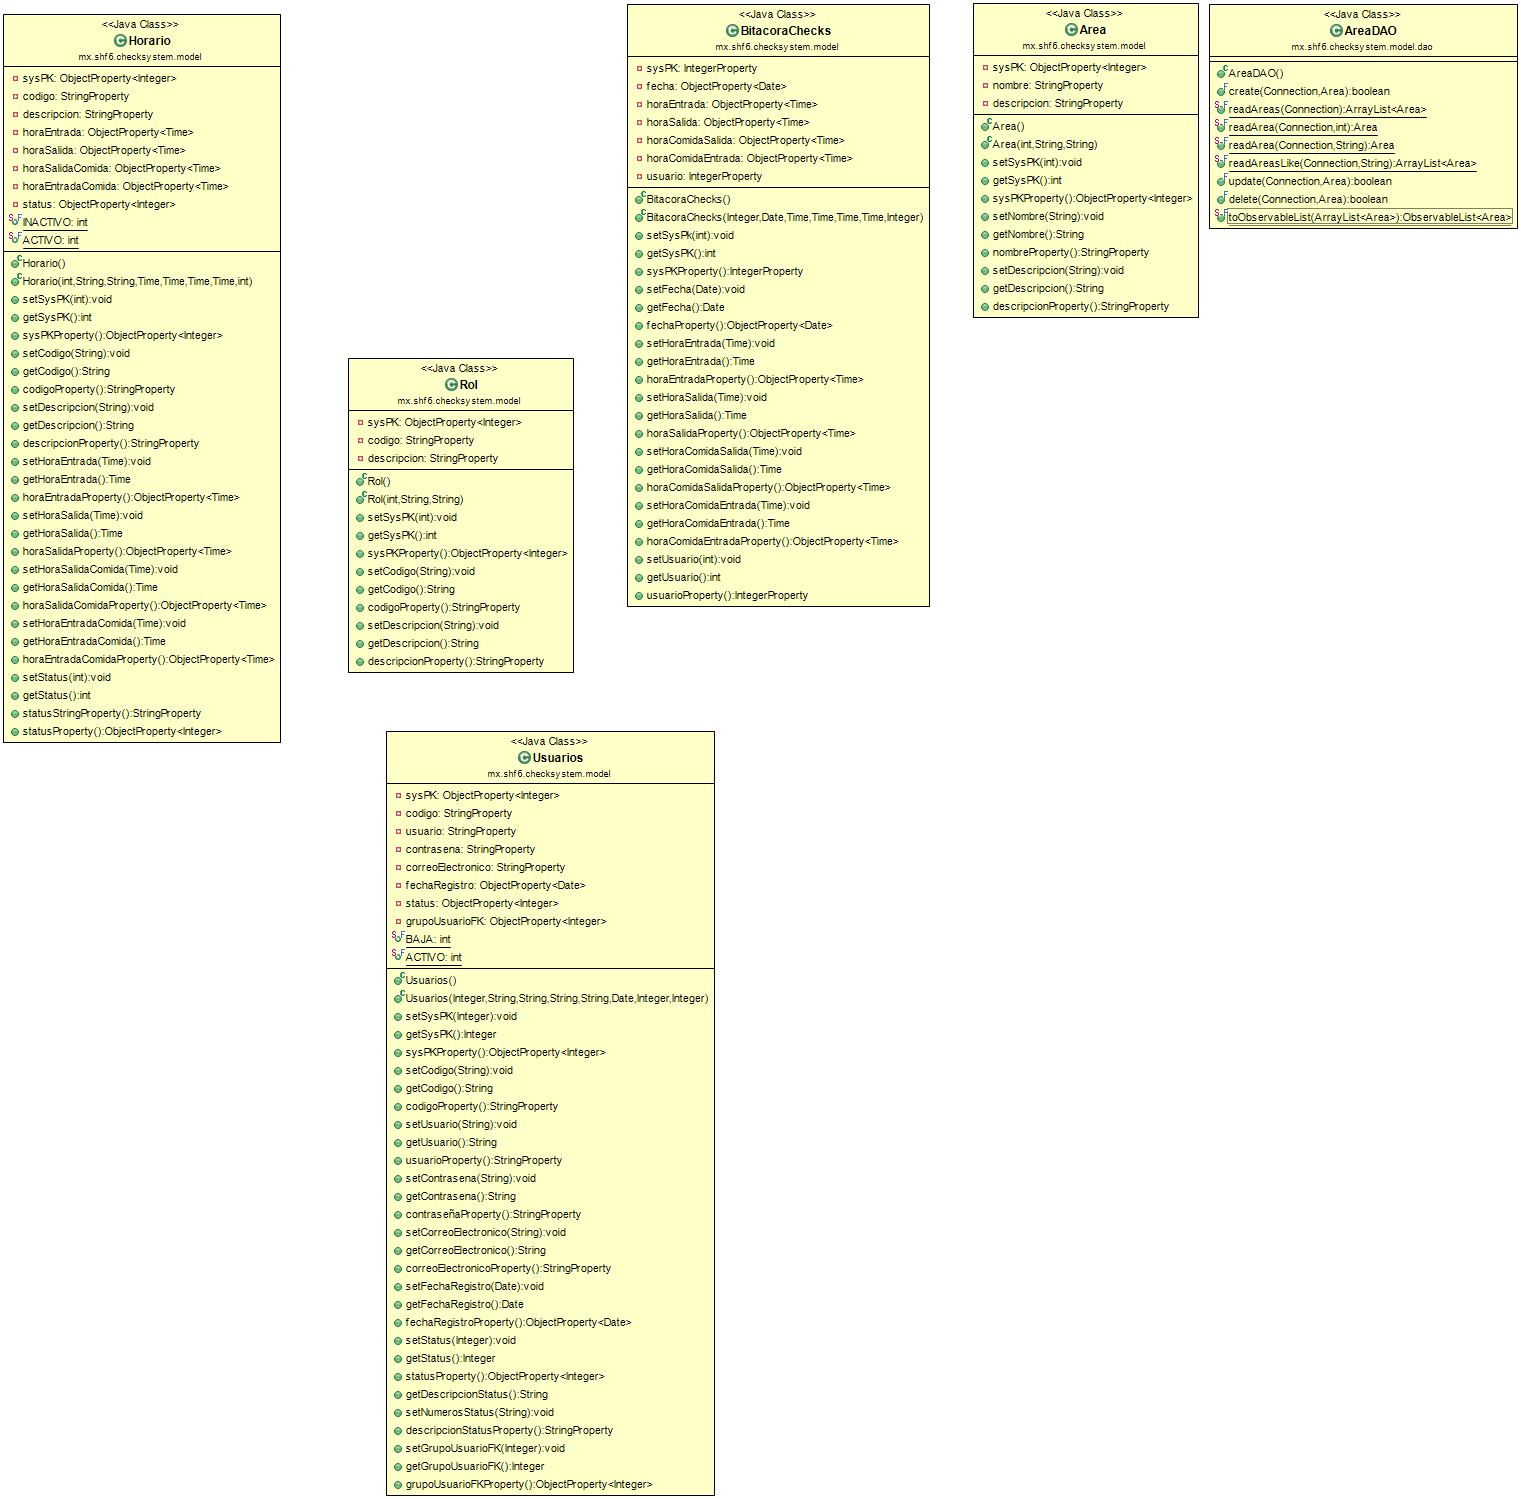
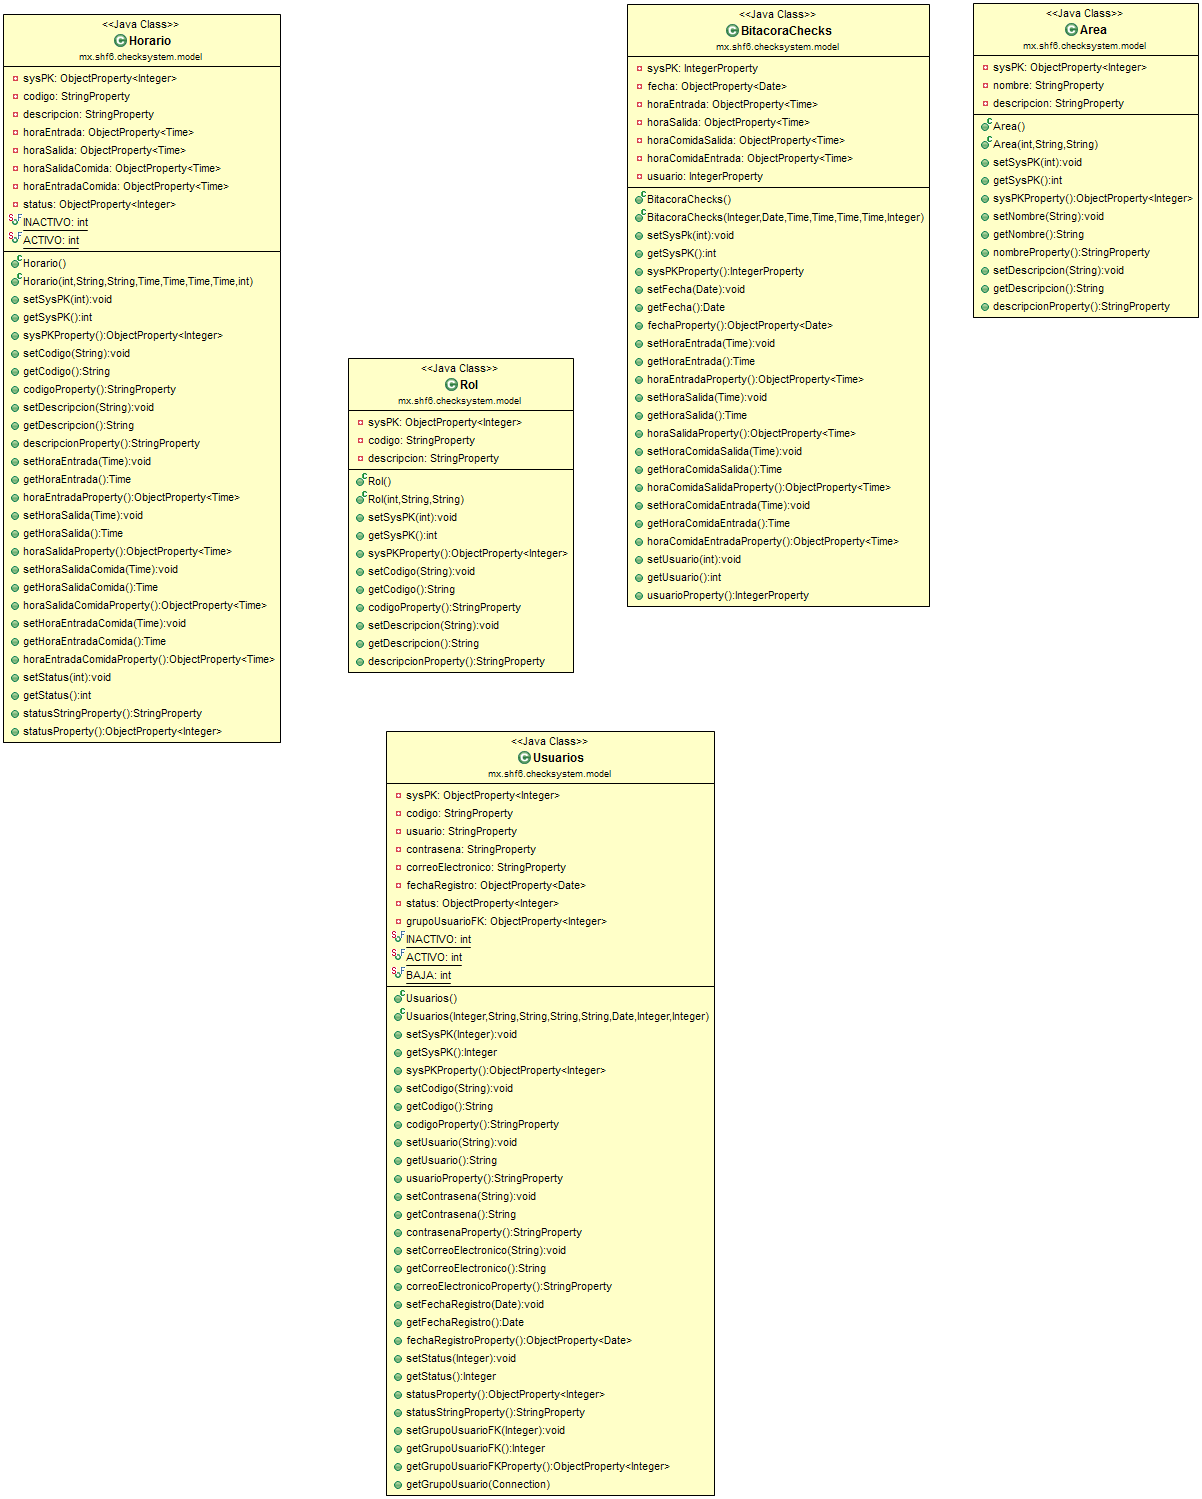
Clase Modelo Usuarios Actualizada
Se actualiza la Clase Modelo de la entidad Usuarios

diff --git a/src/mx/shf6/checksystem/model/Usuarios.java b/src/mx/shf6/checksystem/model/Usuarios.java
@@ -1,6 +1,5 @@
 package mx.shf6.checksystem.model;
 
-import java.sql.Connection;
 import java.sql.Date;
 
 import javafx.beans.property.ObjectProperty;
@@ -141,7 +140,7 @@ public class Usuarios {
 		return this.status;
 	}//FIN METODO
 		
-	public StringProperty descripcionStatusProperty() {
+	public StringProperty statusStringProperty() {
 		switch(this.getStatus()){
 			case 0:
 				return new SimpleStringProperty("Inactivo");
@@ -162,7 +161,9 @@ public class Usuarios {
 	public Integer getGrupoUsuarioFK() {
 		return this.grupoUsuarioFK.get();
 	}//FIN METODO
-	
+	public ObjectProperty<Integer> getGrupoUsuarioFKProperty() {
+		return this.grupoUsuarioFK;
+	}
 	public GrupoUsuario getGrupoUsuario(Connection connection){
 		return connection;
 	}//FIN METODO
